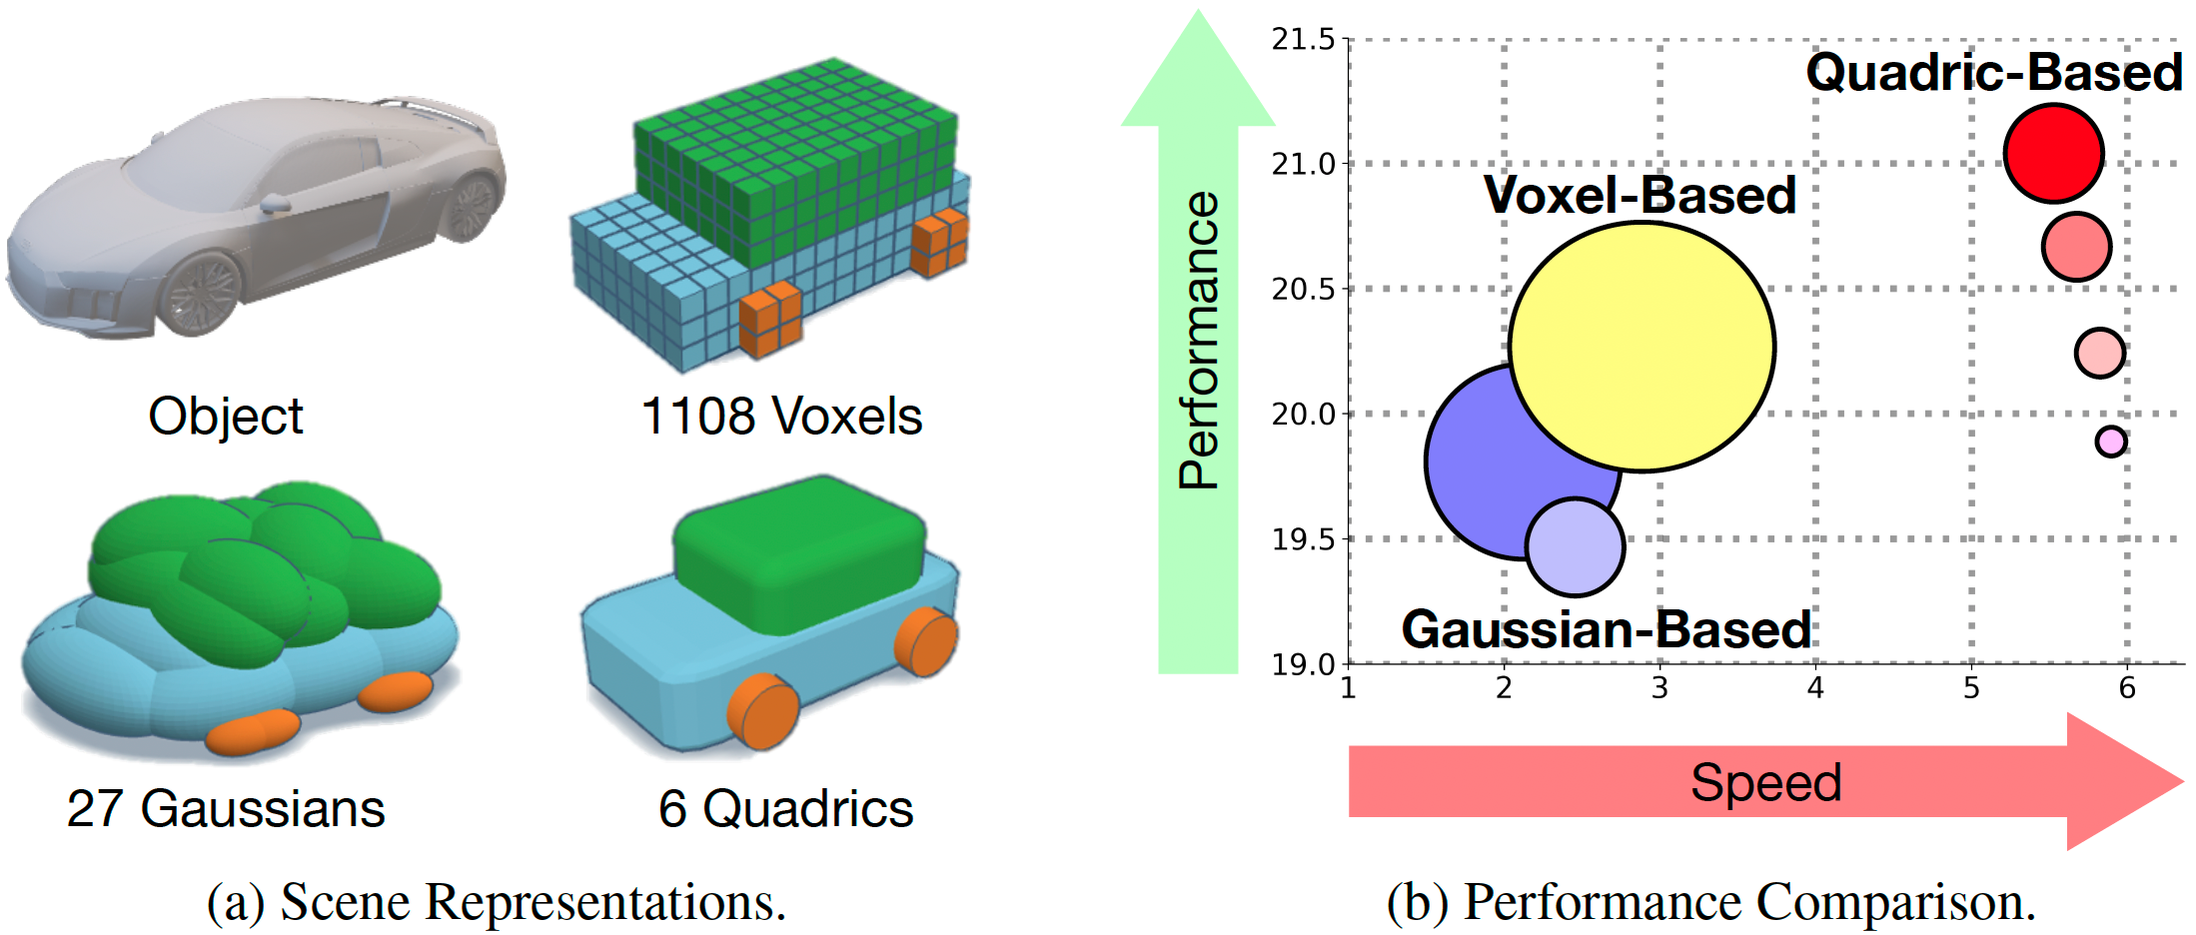
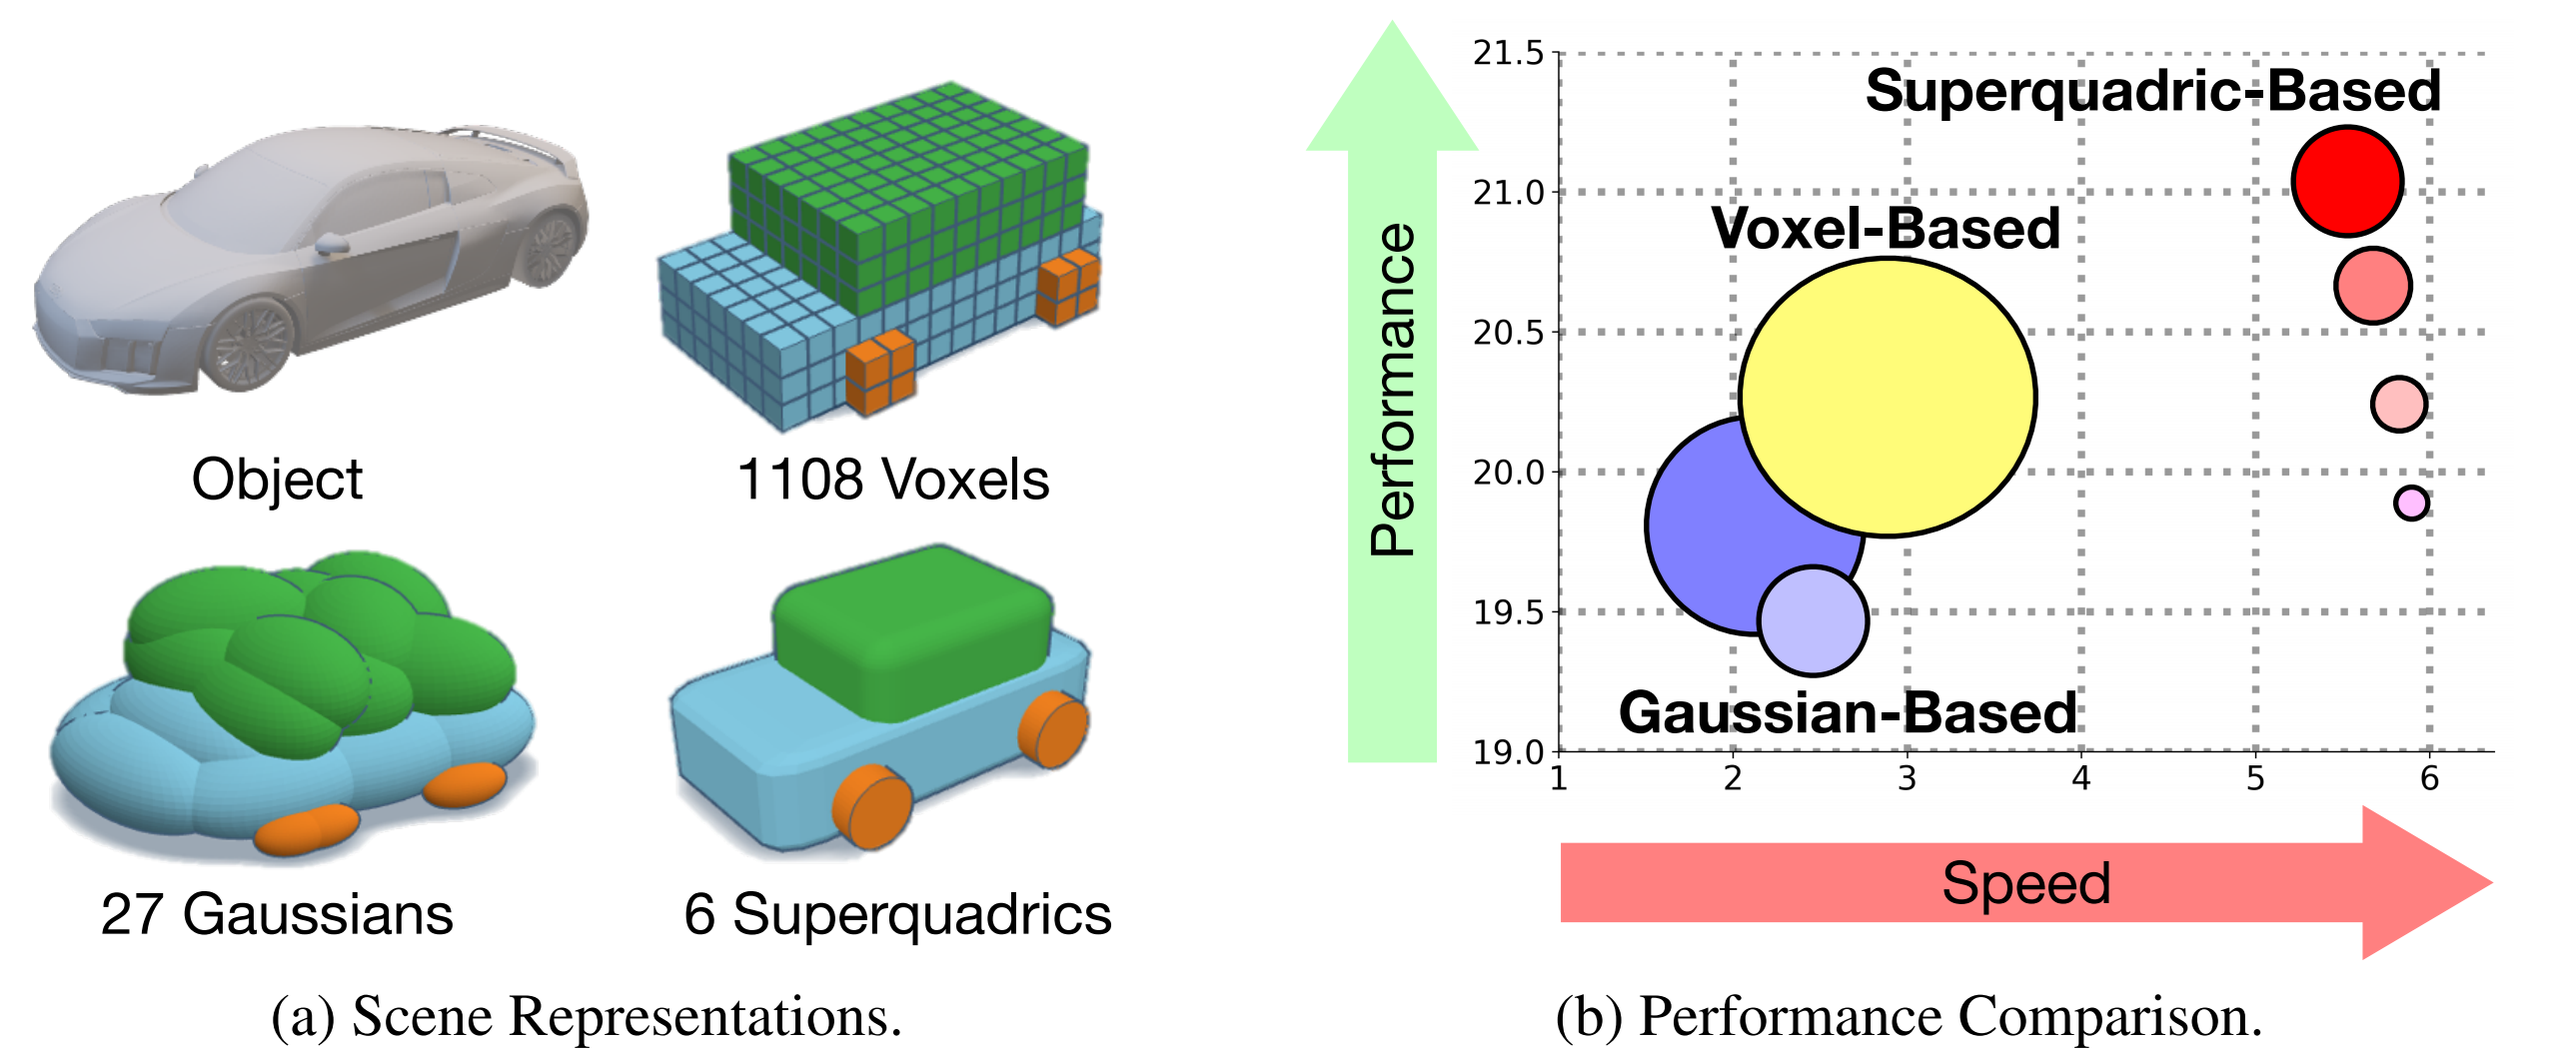
imageexp

diff --git a/index.html b/index.html
@@ -1,7 +1,7 @@
 <!doctype html>
 <html>
 <head>
-<title>EmbodiedOcc</title>
+<title>QuadricFormer</title>
 <meta name="viewport" content="width=device-width,initial-scale=1">
 <!-- <link href="https://maxcdn.bootstrapcdn.com/bootstrap/4.0.0-alpha.6/css/bootstrap.min.css" rel="stylesheet" integrity="sha384-rwoIResjU2yc3z8GV/NPeZWAv56rSmLldC3R/AZzGRnGxQQKnKkoFVhFQhNUwEyJ" crossorigin="anonymous"> -->
 <link href="bootstrap.min.css" rel="stylesheet">
@@ -154,7 +154,29 @@
      <img src="assets/framework.png" width="90%">
 </p>
 
+<h2>Experiments</h2><hr>
+<p> 
+  QuadricFormer consistently outperforms prior methods in both 3D semantic occupancy prediction and computational efficiency. 
+Specifically, our method achieves the highest mIoU (up to 21.11) and IoU (up to 32.13), surpassing all Gaussian-based approaches.
+In terms of efficiency, QuadricFormer significantly reduces both latency and memory usage. For similar or even fewer primitives (e.g., 1600 or 3200), our method achieves a latency as low as 162 ms and 2554 MB memory consumption, which are substantially lower than others.
+Notably, even when increasing the number of primitives in QuadricFormer to 12800, both latency and memory usage remain lower than those of Gaussian-based methods using only 1600 primitives. 
+This further highlights the superior efficiency of our approach for the complex structures in real-world applications.
+  <p>
 
+<p align="center">
+     <img src="assets/table.png" width="90%">
+</p>
+
+<h2>Visualizations</h2><hr>
+<p> 
+  We visualize the position distributions of scene primitives using 1600 superquadrics versus 6400 Gaussians. 
+Gaussian-based methods require a dense arrangement of Gaussians throughout the entire 3D space to model the scene, leading to numerous redundant Gaussians and low modeling efficiency. 
+In contrast, our superquadric-based method learns well-structured spatial arrangements, enabling it to effectively model the scene structure with significantly fewer primitives.
+  <p>
+
+<p align="center">
+     <img src="assets/pos.png" width="90%">
+</p>
 <!-- <h2>Results</h2><hr>
 
 <h4>Local Occupancy Prediction</h4><hr>
